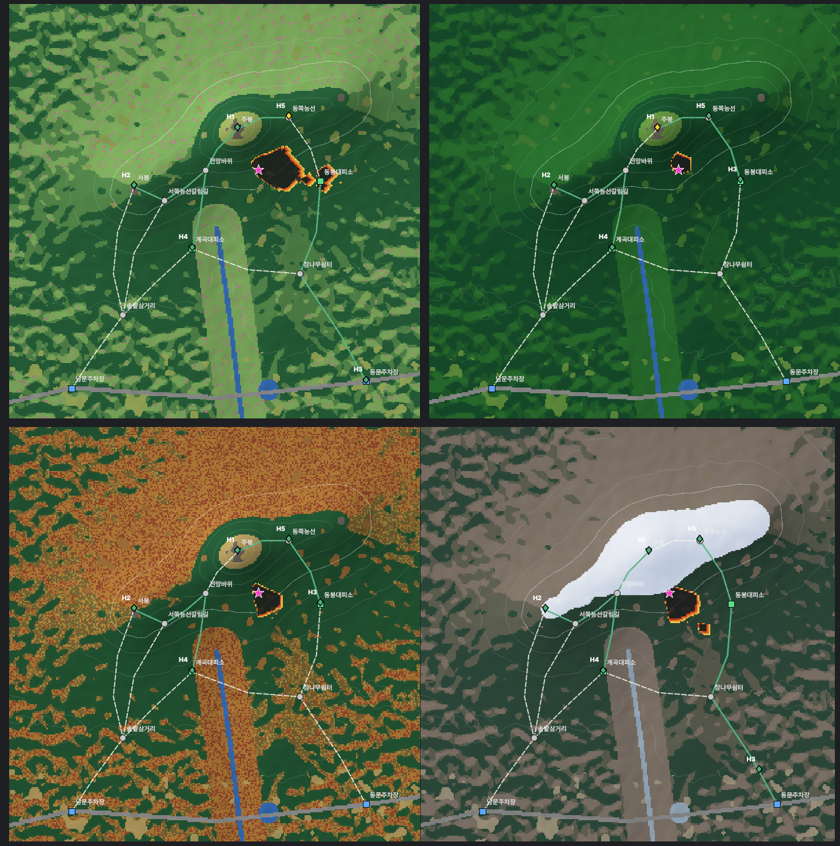
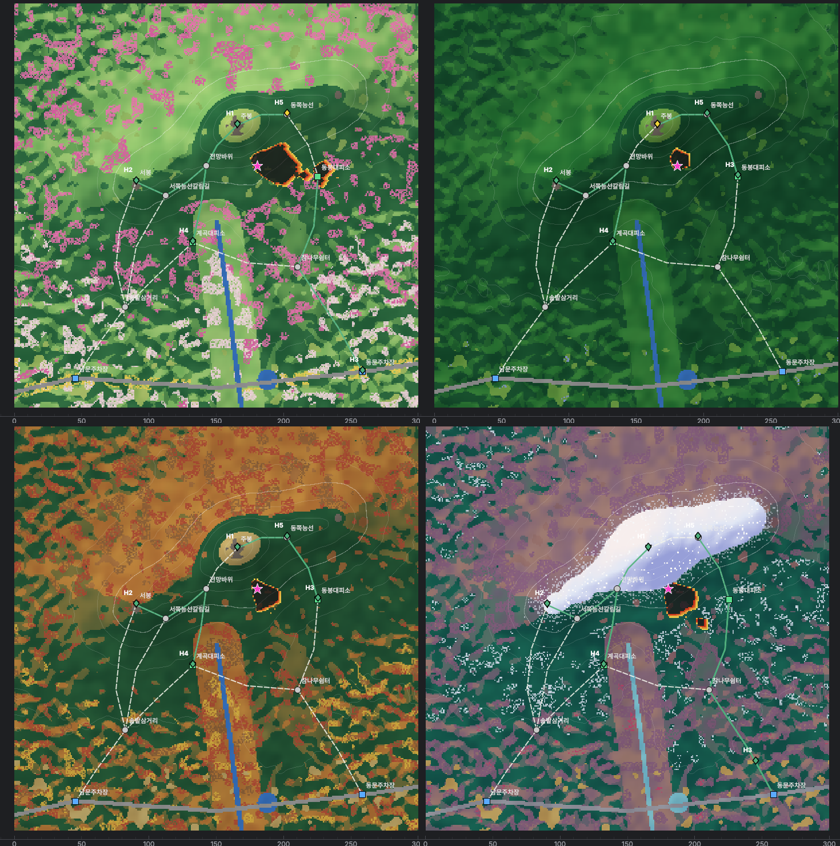
계절별 지도 디자인 다듬기 (꽃 군락, 알록달록 겨울)
- 부드러운 잡음으로 꽃·단풍 군락: 봄 진달래·철쭉·벚꽃·길가 개나리, 가을 붉은 단풍·은행·참나무
- 꽃은 그늘진 사면에서도 화사하게 (음영을 덜 받음), 계절마다 음영 세기 조절
- 겨울: 눈 음영을 살구빛(해)~보라·하늘빛(그늘)으로, 반짝이는 점, 눈 경계 아래 서리,
  에메랄드 소나무, 자줏빛 겨울숲, 산수유 열매, 금빛 억새, 얼음 호수
- 지도 범례에 계절 색 추가, 스크린샷·문서 갱신

Claude-Session: https://claude.ai/code/session_015JJe24gtHrReKaHRwqwJKi

diff --git a/gui/services/season_render.py b/gui/services/season_render.py
@@ -4,12 +4,15 @@
 C 엔진의 계절(season.c)과 같은 계절 키(spring/summer/autumn/winter)를 받아
 바탕 지도의 숲 색을 계절에 맞게 바꾼다. Qt와 상관없는 numpy 계산만 있다.
 
-    봄   : 연두색 새잎 + 진달래 분홍 점
-    여름 : 짙은 초록
-    가을 : 단풍 (활엽수는 주황·적갈색, 침엽수는 초록 그대로)
-    겨울 : 잎 진 회갈색 숲 + 눈 경계(snow_line_m)보다 높은 곳은 흰 눈
+    봄   : 연두 새잎 + 꽃 군락 (진달래 분홍 · 벚꽃 연분홍 · 길가 개나리 노랑)
+    여름 : 짙고 싱그러운 초록 (숲마다 초록 농도가 조금씩 다름)
+    가을 : 단풍 (활엽수는 주황·적갈·노랑이 무리 지어, 침엽수는 초록 그대로)
+    겨울 : 600 m 위 흰 눈 (햇빛 받는 사면은 따뜻한 분홍빛, 그늘은 보라·하늘빛),
+           눈 아래로 내려가며 서리 낀 숲, 눈 덮인 소나무, 금빛 억새, 얼음 호수
 
-불(노랑→빨강)이 잘 보이도록 단풍·진달래 색은 채도를 조금 낮췄다. [가정: 디자인 선택]
+꽃·단풍은 점을 하나씩 흩뿌리지 않고 "부드러운 잡음(smooth noise)"으로 군락을 만든 뒤
+그 안에 점점이 찍어, 실제 산처럼 모여 피어 보이게 했다.
+불(노랑→빨강)과 헷갈리지 않도록 노랑·빨강 계열은 채도와 밝기를 조금 낮췄다. [가정: 디자인 선택]
 """
 
 from __future__ import annotations
@@ -20,35 +23,170 @@ SEASON_KEYS = ("spring", "summer", "autumn", "winter")
 SEASON_LABELS = {"spring": "봄", "summer": "여름", "autumn": "가을", "winter": "겨울"}
 SEASON_ICONS = {"spring": "🌸", "summer": "🌿", "autumn": "🍁", "winter": "❄"}
 
-# 연료 코드 → 계절 색 (theme.FUEL_COLORS 를 덮어씀. 없는 코드는 기본 색 그대로)
-#   1 초지, 2 관목, 3 침엽수, 4 활엽수, 5 혼효림, 8 물
-SEASON_FUEL_COLORS: dict[str, dict[int, tuple[int, int, int]]] = {
-    "spring": {1: (176, 196, 104), 2: (150, 178, 88), 3: (44, 112, 66),
-               4: (142, 196, 106), 5: (96, 156, 86)},
-    "summer": {1: (112, 166, 72), 2: (72, 136, 56), 3: (26, 90, 50),
-               4: (46, 126, 52), 5: (36, 108, 50)},
-    "autumn": {1: (204, 178, 108), 2: (176, 124, 64), 3: (40, 100, 60),
-               4: (198, 138, 62), 5: (128, 120, 62)},
-    "winter": {1: (186, 176, 146), 2: (148, 134, 114), 3: (54, 90, 70),
-               4: (150, 136, 122), 5: (112, 114, 96), 8: (178, 204, 224)},
+# 연료 코드: 1 초지, 2 관목, 3 침엽수, 4 활엽수, 5 혼효림, 7 도로, 8 물, 9 바위
+GRASS, SHRUB, CONIFER, BROADLEAF, MIXED, ROAD, WATER, ROCK = 1, 2, 3, 4, 5, 7, 8, 9
+
+# 연료마다 (밝은 색, 짙은 색) — 부드러운 잡음으로 두 색 사이를 섞어 숲이 얼룩덜룩 자연스럽게 보이게 한다
+SEASON_FUEL_COLORS: dict[str, dict[int, tuple[tuple[int, int, int], tuple[int, int, int]]]] = {
+    "spring": {GRASS: ((196, 220, 120), (160, 200, 100)), SHRUB: ((168, 206, 110), (132, 182, 92)),
+               CONIFER: ((58, 130, 78), (40, 108, 64)), BROADLEAF: ((176, 224, 128), (130, 198, 104)),
+               MIXED: ((120, 186, 100), (84, 150, 82))},
+    "summer": {GRASS: ((128, 184, 80), (100, 160, 66)), SHRUB: ((86, 154, 66), (62, 128, 54)),
+               CONIFER: ((30, 98, 56), (20, 80, 46)), BROADLEAF: ((64, 150, 66), (36, 118, 52)),
+               MIXED: ((48, 126, 60), (30, 102, 50))},
+    "autumn": {GRASS: ((214, 190, 120), (196, 166, 98)), SHRUB: ((186, 128, 70), (160, 104, 60)),
+               CONIFER: ((44, 104, 64), (34, 88, 56)), BROADLEAF: ((206, 146, 66), (186, 118, 56)),
+               MIXED: ((140, 128, 66), (104, 112, 62))},
+    "winter": {GRASS: ((226, 192, 112), (204, 164, 92)), SHRUB: ((176, 132, 122), (150, 110, 118)),
+               CONIFER: ((28, 118, 98), (20, 92, 82)), BROADLEAF: ((182, 140, 128), (150, 116, 136)),
+               MIXED: ((96, 130, 118), (120, 108, 128)), ROAD: ((176, 176, 186), (160, 160, 172)),
+               WATER: ((150, 226, 236), (120, 200, 226))},
 }
 
-# 점 무늬 (색, 대상 연료, 비율) — 숲이 한 가지 색으로 보이지 않게
-ACCENTS: dict[str, list[tuple[tuple[int, int, int], tuple[int, ...], float]]] = {
-    "spring": [((222, 128, 172), (2, 4), 0.06)],          # 진달래·벚꽃
-    "autumn": [((166, 80, 50), (4,), 0.35),               # 붉은 단풍
-               ((206, 160, 70), (5,), 0.30),              # 혼효림의 노란 잎
-               ((176, 96, 52), (5,), 0.15)],
+# 군락 무늬: (이름, 색, 대상 연료, 군락 비율, 군락 안 점 밀도, 조건)
+#   군락 비율 = 대상 셀 중 군락이 되는 비율, 점 밀도 = 군락 안에서 실제로 색이 찍히는 비율
+#   조건: "low" 낮은 곳(산 아래), "mid" 중턱, "road" 길가, None 어디든
+ACCENTS: dict[str, list[tuple[str, tuple[int, int, int], tuple[int, ...], float, float, str | None]]] = {
+    "spring": [
+        ("진달래", (244, 118, 184), (SHRUB, BROADLEAF, MIXED, CONIFER), 0.24, 0.80, "mid"),
+        ("벚꽃", (255, 222, 236), (BROADLEAF, MIXED, GRASS, SHRUB), 0.34, 0.85, "low"),
+        ("개나리", (246, 214, 84), (GRASS, SHRUB, BROADLEAF, MIXED), 0.75, 0.75, "road"),
+        ("철쭉", (226, 92, 168), (SHRUB, BROADLEAF), 0.12, 0.70, None),
+    ],
+    "summer": [
+        ("수국", (130, 150, 220), (GRASS, SHRUB), 0.10, 0.35, "low"),
+    ],
+    "autumn": [
+        ("붉은 단풍", (172, 72, 52), (BROADLEAF, MIXED), 0.30, 0.75, None),
+        ("노란 은행", (214, 176, 64), (BROADLEAF, MIXED), 0.22, 0.70, "low"),
+        ("갈색 참나무", (150, 104, 62), (BROADLEAF,), 0.25, 0.60, None),
+    ],
+    "winter": [
+        ("눈 얹은 소나무", (226, 236, 250), (CONIFER,), 0.30, 0.35, "mid"),
+        ("자줏빛 겨울숲", (150, 104, 140), (BROADLEAF, MIXED), 0.35, 0.80, None),
+        ("붉은 산수유 열매", (196, 70, 110), (SHRUB, BROADLEAF), 0.08, 0.35, "low"),
+    ],
 }
 
-SNOW_COLOR = (246, 249, 253)
-SNOW_SHADOW = (170, 186, 212)      # 눈의 그늘진 사면 (푸르스름하게)
-WATER_CODE = 8
+# 눈: 햇빛 받는 사면은 살짝 분홍·살구빛(알펜글로), 그늘은 보라·하늘빛
+SNOW_SUN = (255, 246, 244)
+SNOW_MID = (232, 238, 252)
+SNOW_SHADE = (156, 164, 222)
+SNOW_SPARKLE = (255, 255, 255)
+FROST_BAND_M = 120.0       # 눈 경계 아래 이 높이까지 서리가 점점 옅게 낀 것처럼 보이게 (장식, 계산과 무관)
+
+# 범례에 쓸 계절 색
+LEGEND: dict[str, list[tuple[str, tuple[int, int, int]]]] = {
+    "spring": [("새잎", (176, 224, 128)), ("진달래", (238, 120, 178)), ("벚꽃", (252, 214, 230)),
+               ("개나리", (238, 212, 92)), ("소나무", (58, 130, 78))],
+    "summer": [("활엽수", (64, 150, 66)), ("소나무", (30, 98, 56)), ("풀밭", (128, 184, 80)),
+               ("수국", (130, 150, 220))],
+    "autumn": [("단풍", (206, 146, 66)), ("붉은 단풍", (172, 72, 52)), ("은행", (214, 176, 64)),
+               ("억새", (214, 190, 120)), ("소나무", (44, 104, 64))],
+    "winter": [("눈(해 받는 곳)", SNOW_SUN), ("눈(그늘)", SNOW_SHADE), ("소나무", (28, 118, 98)),
+               ("자줏빛 겨울숲", (150, 104, 140)), ("산수유 열매", (196, 70, 110)), ("억새", (226, 192, 112)),
+               ("얼음", (150, 226, 236))],
+}
+
+WATER_CODE = WATER
 
 
+# ----------------------------------------------------------------------
+# 잡음
+# ----------------------------------------------------------------------
 def season_noise(shape: tuple[int, int], seed: int = 7) -> np.ndarray:
-    """점 무늬용 0~1 값. 같은 지도는 항상 같은 무늬가 나오도록 시드를 고정한다."""
+    """칸마다 따로 노는 0~1 값 (점 찍기용). 같은 지도는 항상 같은 무늬가 나오도록 시드 고정."""
     return np.random.default_rng(seed).random(shape)
+
+
+def smooth_noise(shape: tuple[int, int], scale: float, seed: int) -> np.ndarray:
+    """
+    부드러운 잡음 (0~1, 고르게 퍼진 값): 굵은 격자에 난수를 놓고 쌍선형 보간으로 늘린다.
+    scale 칸 정도 크기의 얼룩(군락)이 생긴다. 값은 순위로 바꿔서 "상위 20 %" 같은 비율이 정확하다.
+    """
+    h, w = shape
+    gh, gw = int(h / scale) + 2, int(w / scale) + 2
+    coarse = np.random.default_rng(seed).random((gh, gw))
+    ys = np.linspace(0, gh - 1.001, h)
+    xs = np.linspace(0, gw - 1.001, w)
+    y0, x0 = ys.astype(int), xs.astype(int)
+    fy, fx = (ys - y0)[:, None], (xs - x0)[None, :]
+    fy, fx = fy * fy * (3 - 2 * fy), fx * fx * (3 - 2 * fx)     # 부드러운 보간 (smoothstep)
+    a = coarse[np.ix_(y0, x0)]
+    b = coarse[np.ix_(y0, x0 + 1)]
+    c = coarse[np.ix_(y0 + 1, x0)]
+    d = coarse[np.ix_(y0 + 1, x0 + 1)]
+    field = (a * (1 - fx) + b * fx) * (1 - fy) + (c * (1 - fx) + d * fx) * fy
+    ranks = field.ravel().argsort().argsort().reshape(shape)
+    return ranks / max(field.size - 1, 1)
+
+
+def near_road(fuel: np.ndarray, radius: int = 3) -> np.ndarray:
+    """도로에서 radius 칸 안 (개나리는 길가에 핀다)"""
+    road = fuel == ROAD
+    out = road.copy()
+    for dy in range(-radius, radius + 1):
+        for dx in range(-radius, radius + 1):
+            out |= np.roll(np.roll(road, dy, axis=0), dx, axis=1)
+    return out & ~road
+
+
+def _zone(kind: str | None, fuel: np.ndarray, elevation: np.ndarray | None) -> np.ndarray:
+    """군락이 생길 수 있는 곳"""
+    if kind is None or elevation is None or elevation.size < 16:
+        return np.ones(fuel.shape, dtype=bool)
+    lo, hi = np.percentile(elevation, 35), np.percentile(elevation, 80)
+    if kind == "low":
+        return elevation <= lo
+    if kind == "mid":
+        return (elevation > np.percentile(elevation, 25)) & (elevation <= hi)
+    if kind == "road":
+        return near_road(fuel)
+    return np.ones(fuel.shape, dtype=bool)
+
+
+# ----------------------------------------------------------------------
+# 색 칠하기
+# ----------------------------------------------------------------------
+# 계절마다 음영 세기 (밝기 = 최소 + (1 − 최소) × 음영). 봄은 화사하게, 겨울은 맑게
+SEASON_MIN_BRIGHTNESS = {"spring": 0.50, "summer": 0.40, "autumn": 0.45, "winter": 0.50}
+
+
+def season_colors(base: np.ndarray, fuel: np.ndarray, season: str | None,
+                  elevation: np.ndarray | None = None) -> np.ndarray:
+    """기본 연료 색(base, [y, x, 3] float)을 계절 색으로 바꾼다. 모르는 계절이면 그대로."""
+    return season_layers(base, fuel, season, elevation)[0]
+
+
+def season_layers(base: np.ndarray, fuel: np.ndarray, season: str | None,
+                  elevation: np.ndarray | None = None) -> tuple[np.ndarray, np.ndarray]:
+    """
+    계절 색과 "꽃 세기"(0~1)를 함께 돌려준다.
+    꽃 세기가 큰 셀(꽃·열매)은 음영을 덜 받게 해서 그늘진 사면에서도 꽃이 화사하게 보인다.
+    """
+    pop = np.zeros(fuel.shape)
+    if season not in SEASON_FUEL_COLORS:
+        return base, pop
+    colors = base.copy()
+    shape = fuel.shape
+    blend = smooth_noise(shape, 9.0, seed=11)[..., None]          # 숲 얼룩 (밝은 숲 ↔ 짙은 숲)
+    for code, (light, dark) in SEASON_FUEL_COLORS[season].items():
+        pick = fuel == code
+        if pick.any():
+            lt, dk = np.array(light, float), np.array(dark, float)
+            colors[pick] = (dk + (lt - dk) * blend)[pick]
+
+    dots = season_noise(shape)
+    for i, (_name, rgb, codes, ratio, density, zone) in enumerate(ACCENTS.get(season, [])):
+        cluster = smooth_noise(shape, 6.0 + 2.0 * i, seed=23 + i) >= 1.0 - ratio
+        dot = season_noise(shape, seed=101 + i) < density
+        pick = np.isin(fuel, codes) & cluster & dot & _zone(zone, fuel, elevation)
+        # 군락 가운데일수록 진하게, 가장자리는 바탕색과 섞어 부드럽게
+        strength = np.clip(0.65 + 0.35 * dots, 0.0, 1.0)[pick][:, None]
+        colors[pick] = colors[pick] * (1 - strength) + np.array(rgb, float) * strength
+        if _name not in ("자줏빛 겨울숲", "갈색 참나무"):       # 꽃·열매·눈 얹은 가지만 반짝이게
+            pop[pick] = np.maximum(pop[pick], strength[:, 0])
+    return colors, pop
 
 
 def snow_mask(elevation: np.ndarray, fuel: np.ndarray, snow_line_m: float) -> np.ndarray:
@@ -58,32 +196,43 @@ def snow_mask(elevation: np.ndarray, fuel: np.ndarray, snow_line_m: float) -> np
     return (elevation >= snow_line_m) & (fuel != WATER_CODE)
 
 
-def season_colors(base: np.ndarray, fuel: np.ndarray, season: str | None) -> np.ndarray:
+def apply_snow(rgb: np.ndarray, shade: np.ndarray, mask: np.ndarray,
+               elevation: np.ndarray | None = None, fuel: np.ndarray | None = None,
+               snow_line_m: float = 0.0) -> np.ndarray:
     """
-    기본 연료 색(base, [y, x, 3] float)을 계절 색으로 바꾼다.
-    season 이 None 이거나 모르는 값이면 그대로 돌려준다.
+    눈 덮인 셀을 칠한다.
+      햇빛 받는 사면 → 따뜻한 흰색(살구빛), 중간 → 푸른 흰색, 그늘 → 보라·하늘빛 (산 모양이 잘 보이게)
+      군데군데 반짝이는 흰 점
+    elevation 을 주면 눈 경계 바로 아래에 서리 낀 숲(점점 옅어짐)도 그린다. (장식일 뿐, 계산에는 영향 없음)
     """
-    if season not in SEASON_FUEL_COLORS:
-        return base
-    colors = base.copy()
-    for code, rgb in SEASON_FUEL_COLORS[season].items():
-        colors[fuel == code] = rgb
-    noise = season_noise(fuel.shape)
-    start = 0.0
-    for rgb, codes, ratio in ACCENTS.get(season, []):
-        pick = np.isin(fuel, codes) & (noise >= start) & (noise < start + ratio)
-        colors[pick] = rgb
-        start += ratio
-    return colors
-
-
-def apply_snow(rgb: np.ndarray, shade: np.ndarray, mask: np.ndarray) -> np.ndarray:
-    """눈 덮인 셀을 흰색으로 칠한다. 그늘진 사면은 푸르스름하게 해서 산 모양이 보이게 한다."""
     if not mask.any():
         return rgb
-    light = np.array(SNOW_COLOR, dtype=np.float64)
-    dark = np.array(SNOW_SHADOW, dtype=np.float64)
-    s = shade[mask][:, None]
     rgb = rgb.copy()
-    rgb[mask] = dark + (light - dark) * s
+    sun = np.array(SNOW_SUN, float)
+    mid = np.array(SNOW_MID, float)
+    dark = np.array(SNOW_SHADE, float)
+    s = shade[mask]
+    lo, hi = np.percentile(s, 8), np.percentile(s, 92)
+    s = np.clip((s - lo) / max(hi - lo, 1e-6), 0.0, 1.0)[:, None]   # 눈 안에서 음영 차이를 크게 (산 모양이 보이게)
+    low = dark + (mid - dark) * np.clip(s / 0.6, 0, 1)
+    high = mid + (sun - mid) * np.clip((s - 0.6) / 0.4, 0, 1)
+    rgb[mask] = np.where(s < 0.6, low, high)
+
+    sparkle = mask & (season_noise(mask.shape, seed=303) < 0.04)
+    rgb[sparkle] = SNOW_SPARKLE
+
+    if elevation is not None and fuel is not None and snow_line_m > 0:
+        below = (snow_line_m - elevation) / FROST_BAND_M          # 0 (눈 경계) ~ 1 (서리 끝)
+        band = (~mask) & (below > 0) & (below < 1) & (fuel != WATER_CODE) & (fuel != ROAD)
+        chance = np.clip(1 - below, 0.0, 1.0) ** 2 * 0.45
+        frost = band & (season_noise(mask.shape, seed=404) < chance)
+        rgb[frost] = rgb[frost] * 0.35 + np.array(SNOW_MID, float) * 0.65 * (0.75 + 0.25 * shade[frost][:, None])
     return rgb
+
+
+def legend_html(season: str | None) -> str:
+    """지도 아래 범례에 붙일 계절 색 (예: '🌸 봄  ■ 진달래 ■ 벚꽃 ...')"""
+    if season not in LEGEND:
+        return ""
+    chips = "  ".join(f'<span style="color:rgb{rgb}">■</span> {name}' for name, rgb in LEGEND[season])
+    return f"{SEASON_ICONS[season]} {SEASON_LABELS[season]}  {chips}"

diff --git a/gui/services/map_render.py b/gui/services/map_render.py
@@ -55,14 +55,17 @@ def terrain_image(elevation: np.ndarray, fuel: np.ndarray, cell_size: float,
     (9단계) season 을 주면 숲 색을 계절 색으로 바꾸고, snow_line_m 보다 높은 곳은 눈으로 덮는다.
     """
     shade = hillshade(elevation, cell_size)
-    brightness = 0.35 + 0.65 * shade                     # 너무 어둡지 않게
+    low = season_render.SEASON_MIN_BRIGHTNESS.get(season, 0.35) if show_fuel else 0.35
+    brightness = low + (1.0 - low) * shade               # 너무 어둡지 않게
     if show_fuel:
         colors = fuel_color_table()[np.clip(fuel, 0, 31)]
-        colors = season_render.season_colors(colors, fuel, season)
+        colors, pop = season_render.season_layers(colors, fuel, season, elevation)
+        brightness = brightness * (1 - pop) + (0.80 + 0.20 * shade) * pop   # 꽃은 그늘에서도 화사하게
     else:
         colors = np.full(elevation.shape + (3,), 175.0)
     rgb = colors * brightness[..., None]
-    rgb = season_render.apply_snow(rgb, shade, season_render.snow_mask(elevation, fuel, snow_line_m))
+    rgb = season_render.apply_snow(rgb, shade, season_render.snow_mask(elevation, fuel, snow_line_m),
+                                   elevation, fuel, snow_line_m)
     return np.clip(rgb, 0, 255).astype(np.uint8)
 
 

diff --git a/gui/views/map_view.py b/gui/views/map_view.py
@@ -234,6 +234,8 @@ class MapView(QWidget):
                                          season=season, snow_line_m=snow)
         self.terrain_item.setImage(image, levels=(0, 255))
         self.season_label.setText(season_badge(self.map.season, self.map.snow_line_m))
+        season_line = season_render.legend_html(season)
+        self.legend_label.setText(self._legend_html() + ("<br>" + season_line if season_line else ""))
         self.terrain_item.setRect(0, 0, self.map.width, self.map.height)
 
     def _draw_contours(self) -> None:

diff --git a/README.md b/README.md
@@ -55,14 +55,15 @@
 | 몬테카를로 | N회 반복(비화·기상 오차) → 연소 확률 지도, 피해 면적 분포, "가장 이른 10%" 기준 보수적 대피 안내 |
 | 실제 기상 | 기상청 단기예보 API → 엔진 기상 파일 (인터넷이 없으면 샘플 파일) |
 | 낮/밤 | 날짜·위치로 해의 높이를 계산 → 일몰 후 등산객은 천천히 걷고(60%), 진화 헬기는 철수. 지도가 시각에 따라 어두워지고 밤에는 불빛이 번져 보임 |
-| 사계절 | 기상청 평년값으로 계절별 하루 날씨(봄 건조·강풍, 여름 습함, 가을 건조, 겨울 건조·추위)를 만들고, 겨울엔 해발 600 m 위가 눈에 덮여 불이 못 넘어감. 지도도 봄 진달래·여름 초록·가을 단풍·겨울 눈으로 바뀜 |
+| 사계절 | 기상청 평년값으로 계절별 하루 날씨(봄 건조·강풍, 여름 습함, 가을 건조, 겨울 건조·추위)를 만들고, 겨울엔 해발 600 m 위가 눈에 덮여 불이 못 넘어감. 지도도 봄 진달래·벚꽃·개나리, 여름 초록, 가을 단풍·은행, 겨울 눈·서리·자줏빛 숲으로 바뀜 |
 | GUI | 지도 애니메이션, 대피 안내, 전략 나란히 비교, 통계 그래프, HTML 리포트 저장 |
 
 | | |
 |---|---|
 | ![진화 전략 비교](docs/images/gui_suppression.png) | ![통계](docs/images/gui_stats.png) |
 | ![해 질 녘 (19:05)](docs/images/gui_sunset.png) | ![밤 (21:00)](docs/images/gui_night.png) |
-| ![사계절 지도 (봄·여름·가을·겨울)](docs/images/gui_seasons.png) | ![겨울 (눈 덮인 능선)](docs/images/gui_winter.png) |
+| ![사계절 지도 (봄·여름·가을·겨울)](docs/images/gui_seasons.png) | ![봄 (진달래·벚꽃·개나리)](docs/images/gui_spring.png) |
+| ![겨울 (눈 덮인 능선)](docs/images/gui_winter.png) | |
 
 ---
 

diff --git a/docs/LINE_COUNT.md b/docs/LINE_COUNT.md
@@ -5,8 +5,8 @@
 | 언어 | 현재 | 목표 | 진행률 |
 |---|---:|---:|---:|
 | C | 9899 | 약 8,000 | 124% |
-| Python | 5085 | 약 4,000 | 127% |
-| **합계** | **14984** | **약 12,000** | **125%** |
+| Python | 5239 | 약 4,000 | 131% |
+| **합계** | **15138** | **약 12,000** | **126%** |
 
 ## C
 
@@ -77,11 +77,11 @@
 | `gui/services/app_config.py` | 62 | 31 | 16 | 15 |
 | `gui/services/daylight_render.py` | 92 | 54 | 21 | 17 |
 | `gui/services/engine_runner.py` | 166 | 109 | 24 | 33 |
-| `gui/services/map_render.py` | 115 | 64 | 31 | 20 |
+| `gui/services/map_render.py` | 118 | 67 | 31 | 20 |
 | `gui/services/report_builder.py` | 162 | 37 | 100 | 25 |
 | `gui/services/result_loader.py` | 480 | 353 | 43 | 84 |
 | `gui/services/scenario_writer.py` | 152 | 104 | 25 | 23 |
-| `gui/services/season_render.py` | 89 | 52 | 20 | 17 |
+| `gui/services/season_render.py` | 238 | 155 | 48 | 35 |
 | `gui/services/terrain_generator.py` | 256 | 145 | 60 | 51 |
 | `gui/services/trail_generator.py` | 112 | 76 | 15 | 21 |
 | `gui/services/weather_api.py` | 236 | 153 | 46 | 37 |
@@ -91,7 +91,7 @@
 | `gui/views/evacuation_view.py` | 214 | 176 | 11 | 27 |
 | `gui/views/log_console.py` | 72 | 50 | 6 | 16 |
 | `gui/views/main_window.py` | 286 | 220 | 31 | 35 |
-| `gui/views/map_view.py` | 500 | 395 | 52 | 53 |
+| `gui/views/map_view.py` | 502 | 397 | 52 | 53 |
 | `gui/views/playback_bar.py` | 124 | 90 | 10 | 24 |
 | `gui/views/report_view.py` | 91 | 69 | 8 | 14 |
 | `gui/views/scenario_panel.py` | 438 | 352 | 39 | 47 |
@@ -100,4 +100,4 @@
 | `gui/views/weather_dialog.py` | 157 | 128 | 9 | 20 |
 | `tools/count_lines.py` | 119 | 92 | 9 | 18 |
 | `tools/run_tests.py` | 392 | 298 | 41 | 53 |
-| **합계** | **5085** | **3647** | **689** | **749** |
+| **합계** | **5239** | **3755** | **717** | **767** |

diff --git a/docs/model.md b/docs/model.md
@@ -417,8 +417,17 @@ sin(고도) = sin(위도)·sin(δ) + cos(위도)·cos(δ)·cos(H)
 가을보다 넓게 타지만, 해발 600 m 위 능선은 눈 때문에 불이 넘어가지 못한다.
 
 ### 15-5. 화면 (gui/services/season_render.py)
-계절에 따라 바탕 지도의 숲 색을 바꾼다: 봄 연두 새잎 + 진달래 분홍 점, 여름 짙은 초록, 가을 단풍(활엽수 주황·적갈색, 침엽수는 초록),
-겨울 잎 진 회갈색 숲 + 눈(그늘진 사면은 푸르스름하게 해서 산 모양이 보이게). 불(노랑→빨강)이 잘 보이도록 단풍색은 채도를 낮췄다.
+계절에 따라 바탕 지도의 숲 색을 바꾼다. 꽃·단풍은 점을 흩뿌리지 않고 **부드러운 잡음(smooth noise)으로 군락**을 만든 뒤 그 안에 점점이 찍어
+실제 산처럼 무리 지어 피어 보이게 했고, 꽃은 그늘진 사면에서도 화사하게 보이도록 음영을 덜 받게 했다.
+
+| 계절 | 디자인 |
+|---|---|
+| 봄 | 연두 새잎, 중턱 진달래·철쭉(분홍), 산 아래 벚꽃(연분홍), 길가 개나리(노랑) |
+| 여름 | 짙은 초록 (숲마다 농도가 다름), 낮은 풀밭에 수국 |
+| 가을 | 단풍 — 주황 바탕에 붉은 단풍·노란 은행·갈색 참나무가 무리 지어, 침엽수는 초록 |
+| 겨울 | 600 m 위 눈 (해 받는 사면은 살구빛, 그늘은 보라·하늘빛, 반짝이는 점), 눈 경계 아래 서리 낀 숲, 에메랄드 소나무, 자줏빛 겨울숲, 산수유 열매, 금빛 억새, 얼음 호수 |
+
+불(노랑→빨강)과 헷갈리지 않도록 노랑·빨강 계열은 채도·밝기를 조금 낮췄다. 지도 아래 범례에 계절 색이 함께 나온다.
 
 ## 참고 문헌
 

diff --git a/docs/CHANGELOG.md b/docs/CHANGELOG.md
@@ -421,7 +421,7 @@
 - **출력**: `summary.json`의 `season`(계절, 평년 기후, 눈 경계, 눈 셀 수), 콘솔 요약에 계절 기상·눈 경계
 
 ### 만든 것 (Python)
-- **`services/season_render.py`** (새 파일): 계절별 숲 색(봄 연두+진달래, 여름 짙은 초록, 가을 단풍, 겨울 잎 진 숲+눈)
+- **`services/season_render.py`** (새 파일): 계절별 숲 색. 부드러운 잡음으로 꽃·단풍 군락 (봄 진달래·벚꽃·개나리, 가을 붉은 단풍·은행, 겨울 보라빛 그늘의 눈·서리·자줏빛 겨울숲·산수유·얼음 호수), 꽃은 그늘에서도 화사하게, 범례에 계절 색
 - **지도·진화 전략 화면**: 계절 색으로 바탕 지도, "계절 색" 레이어 켜기/끄기, "❄ 겨울 지도 · 해발 600 m 이상 눈" 표시
 - **설정 패널**: 기상에 "계절 평년 날씨 (하루 변화)" 선택 추가. 계절을 고르면 계절 평년 날씨 + 대표 날짜(일출·일몰이 계절마다 다름) + 지도 색이 바로 바뀜
 - **계절 프리셋**: `season_presets.ini`에서 장마 설명 제거, 대표 날짜·눈 경계 추가
